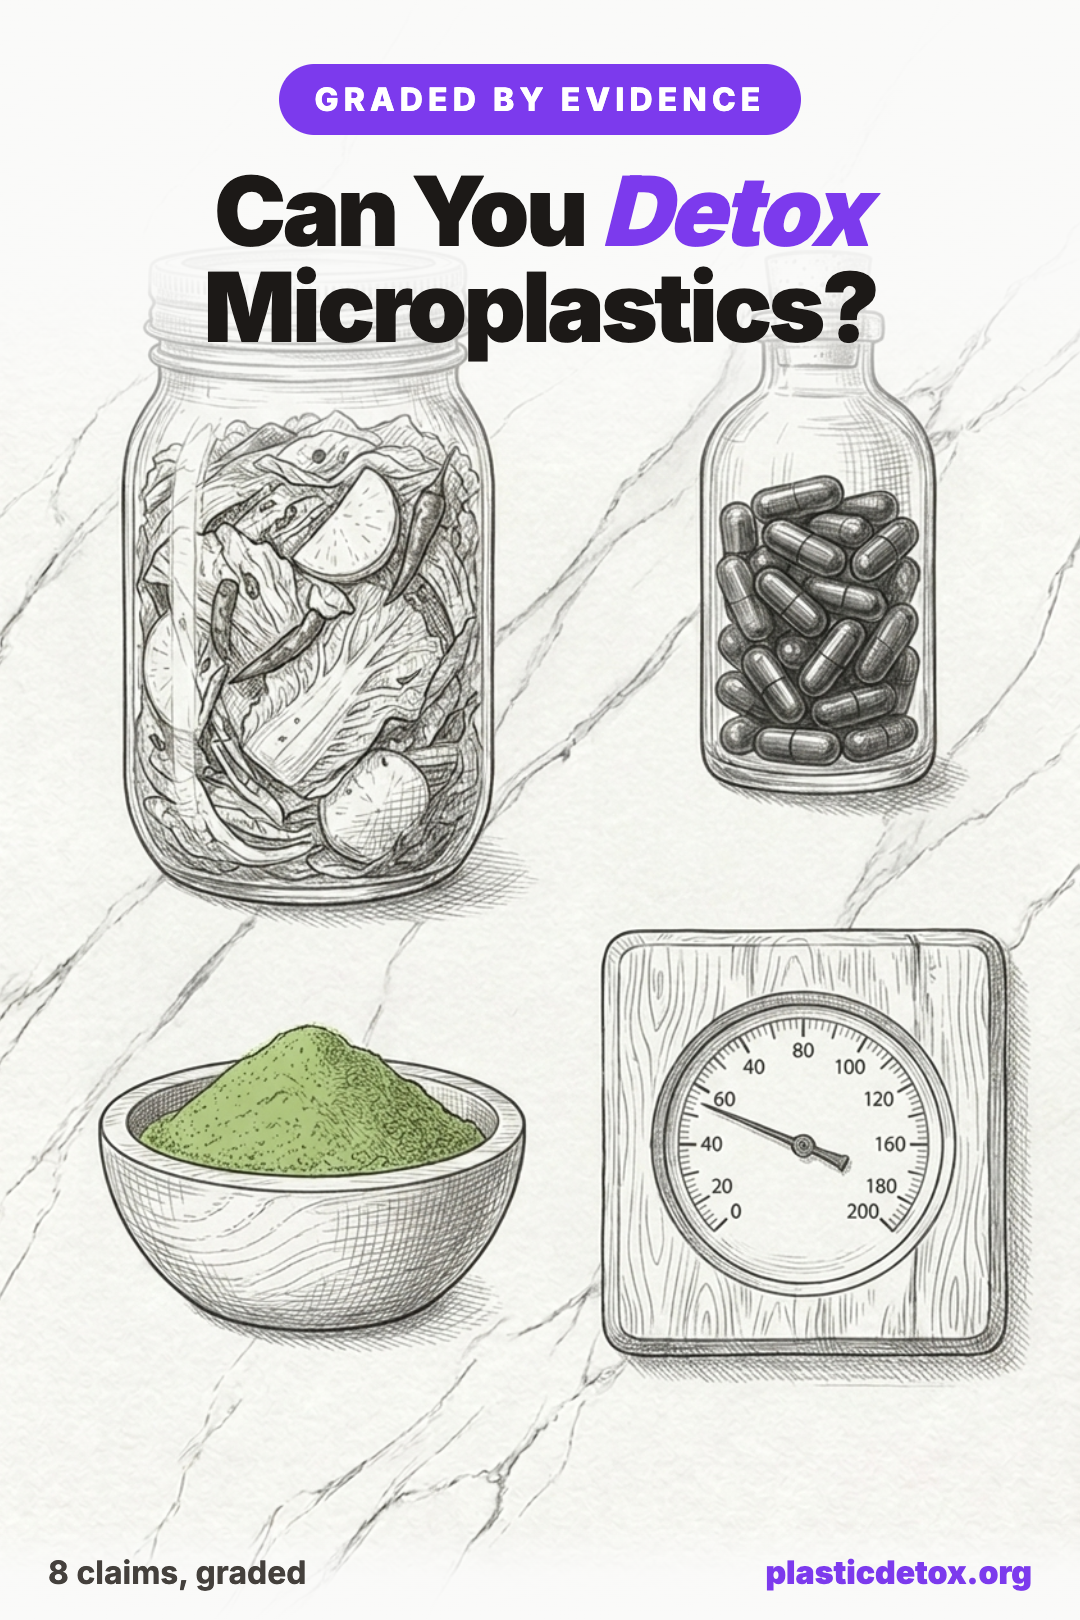
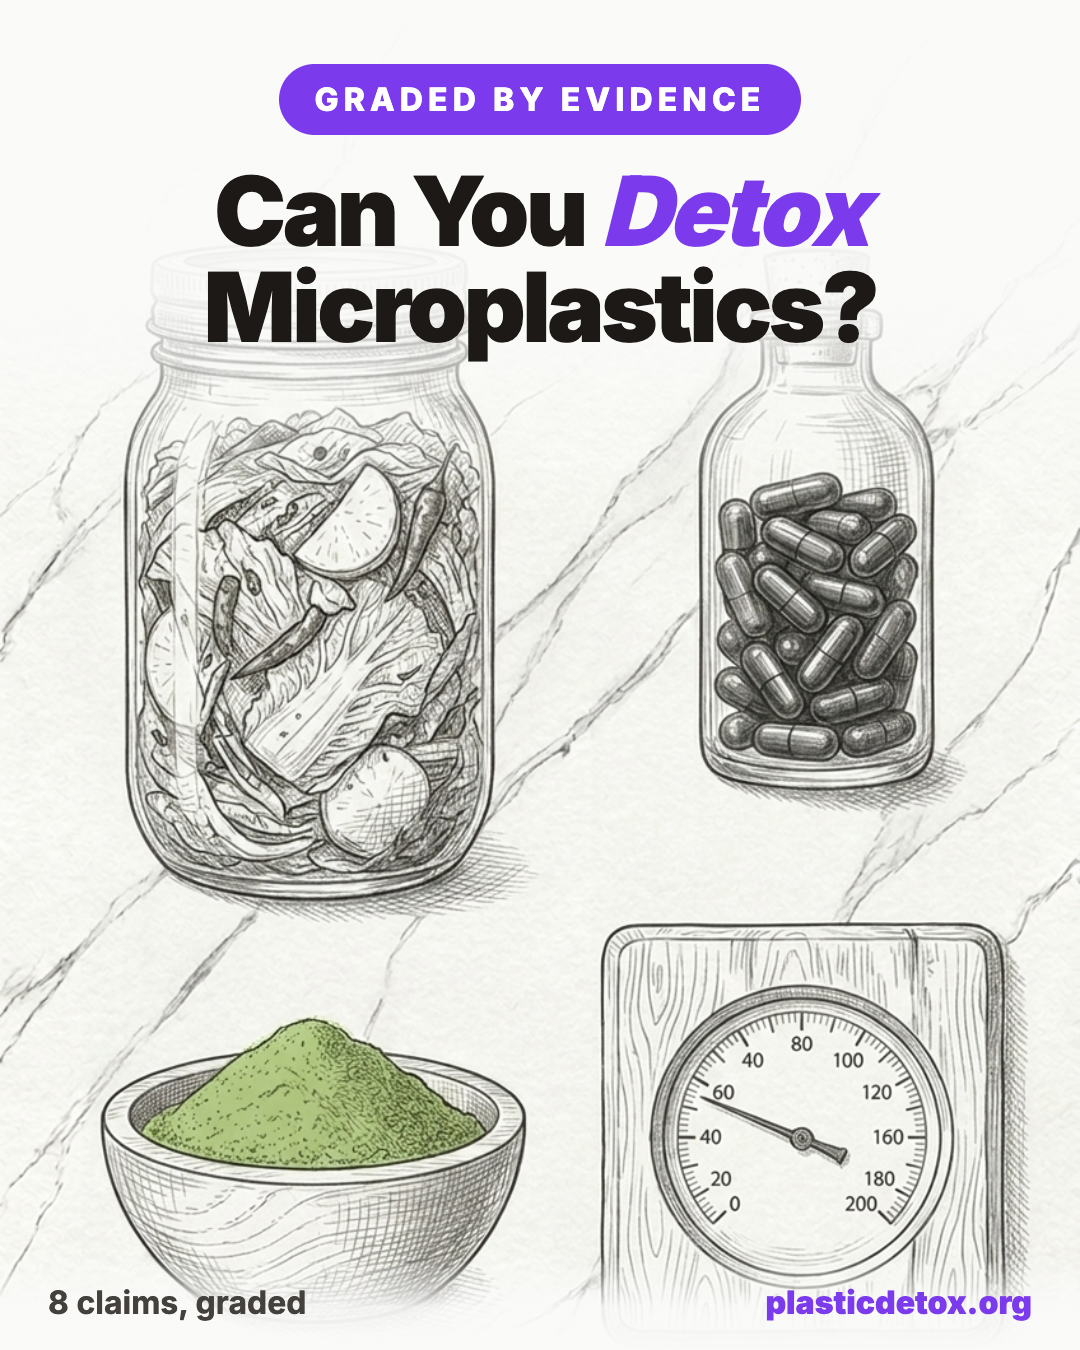
Fix detox hero aspect ratio to 1080x1350 and move summary above intro
Rebuilds the hero at the standard 4:5 ratio (was stretched at 1080x1620),
adds the Pinterest save button + pin meta, and places the 30 Second Summary
right after the hero, before the introduction, matching the hidden-food article.

diff --git a/articles/can-you-detox-microplastics.html b/articles/can-you-detox-microplastics.html
@@ -14,7 +14,7 @@
   <meta property="og:description" content="A wave of microplastic detox content promises kimchi, fiber, saunas, and green powders will flush plastic out of you. We grade each claim against the actual science, and name the trick almost all of them use.">
   <meta property="og:image" content="https://plasticdetox.org/images/can-you-detox-microplastics-article-hero.webp">
   <meta property="og:image:width" content="1080">
-  <meta property="og:image:height" content="1620">
+  <meta property="og:image:height" content="1350">
   <meta property="og:url" content="https://plasticdetox.org/articles/can-you-detox-microplastics.html">
   <meta property="og:site_name" content="Plastic Detox">
 
@@ -22,6 +22,9 @@
   <meta name="twitter:title" content="Can You Detox Microplastics? Every Popular Claim, Graded by the Evidence (2026)">
   <meta name="twitter:description" content="Kimchi, fiber, broccoli pills, saunas, charcoal, blood donation. We grade every popular microplastic detox claim against the research, and explain the one swap almost all of them use.">
   <meta name="twitter:image" content="https://plasticdetox.org/images/can-you-detox-microplastics-article-hero.webp">
+
+  <meta name="pin:media" content="https://plasticdetox.org/images/can-you-detox-microplastics-article-hero.webp">
+  <meta name="pin:description" content="Can you detox microplastics? Kimchi, fiber, broccoli pills, saunas, charcoal, and blood donation, every popular claim graded against the actual research, plus the one trick almost all of them use.">
 
   <script type="application/ld+json">
   {
@@ -131,6 +134,15 @@
   <link rel="stylesheet" href="../css/article.css">
   <style>
     .pin-container { position: relative; margin: 2rem 0; }
+    .pin-container:hover .pin-button { opacity: 1; }
+    .pin-button {
+      position: absolute; top: 16px; left: 16px; display: flex; align-items: center; gap: 6px;
+      background: #e60023; color: #fff; border: none; border-radius: 24px; padding: 10px 16px;
+      font-family: 'Inter', sans-serif; font-size: 0.85rem; font-weight: 700; cursor: pointer;
+      opacity: 0; transition: opacity 0.2s; z-index: 2; text-decoration: none; box-shadow: 0 2px 8px rgba(0,0,0,0.2);
+    }
+    .pin-button:hover { background: #ad081b; }
+    .pin-button svg { width: 18px; height: 18px; fill: #fff; }
     .pin-img { width: 100%; border-radius: var(--radius-sm); display: block; }
     .verdict-table { width: 100%; border-collapse: collapse; margin: 1.5rem 0 2rem; font-size: 0.92rem; }
     .verdict-table th, .verdict-table td { padding: 0.75rem 0.6rem; text-align: left; border-bottom: 1px solid #e7e5e4; vertical-align: top; }
@@ -172,7 +184,23 @@
     <div class="article-meta">Updated June 18, 2026 · 16 min read · <em>This article contains affiliate links. If you purchase through our links, we may earn a small commission at no extra cost to you.</em></div>
 
     <div class="pin-container">
-      <img class="pin-img" fetchpriority="high" src="../images/can-you-detox-microplastics-article-hero.webp" alt="Can you detox microplastics? Pencil illustration of a jar of kimchi, a bottle of capsules, a bowl of green powder, and a scale on marble, with 8 claims graded by the evidence" width="1080" height="1620">
+      <a class="pin-button" href="https://www.pinterest.com/pin/create/button/?url=https%3A%2F%2Fplasticdetox.org%2Farticles%2Fcan-you-detox-microplastics.html&media=https%3A%2F%2Fplasticdetox.org%2Fimages%2Fcan-you-detox-microplastics-article-hero.webp&description=Can%20You%20Detox%20Microplastics%3F%20Every%20popular%20claim%2C%20from%20kimchi%20to%20saunas%20to%20charcoal%2C%20graded%20by%20the%20evidence." target="_blank" rel="noopener">
+        <svg viewBox="0 0 24 24"><path d="M12 0C5.373 0 0 5.373 0 12c0 5.084 3.163 9.426 7.627 11.174-.105-.949-.2-2.405.042-3.441.218-.937 1.407-5.965 1.407-5.965s-.359-.719-.359-1.782c0-1.668.967-2.914 2.171-2.914 1.023 0 1.518.769 1.518 1.69 0 1.029-.655 2.568-.994 3.995-.283 1.194.599 2.169 1.777 2.169 2.133 0 3.772-2.249 3.772-5.495 0-2.873-2.064-4.882-5.012-4.882-3.414 0-5.418 2.561-5.418 5.207 0 1.031.397 2.138.893 2.738a.36.36 0 0 1 .083.345l-.333 1.36c-.053.22-.174.267-.402.161-1.499-.698-2.436-2.889-2.436-4.649 0-3.785 2.75-7.262 7.929-7.262 4.163 0 7.398 2.967 7.398 6.931 0 4.136-2.607 7.464-6.227 7.464-1.216 0-2.359-.631-2.75-1.378l-.748 2.853c-.271 1.043-1.002 2.35-1.492 3.146C9.57 23.812 10.763 24 12 24c6.627 0 12-5.373 12-12S18.627 0 12 0z"/></svg>
+        Save
+      </a>
+      <img class="pin-img" fetchpriority="high" src="../images/can-you-detox-microplastics-article-hero.webp" alt="Can you detox microplastics? Pencil illustration of a jar of kimchi, a bottle of capsules, a bowl of green powder, and a scale on marble, with 8 claims graded by the evidence" width="1080" height="1350" data-pin-description="Can you detox microplastics? Kimchi, fiber, broccoli pills, saunas, charcoal, and blood donation, every popular claim graded against the actual research.">
+    </div>
+
+    <div class="tldr-card">
+      <h2>The 30 Second Summary</h2>
+      <ul>
+        <li><strong>No human study shows you can remove plastic particles already in your tissues.</strong> Not with kimchi, fiber, saunas, charcoal, or any green powder. The science is genuinely early.</li>
+        <li><strong>The one trick to watch for is the chemical for particle swap.</strong> Removes BPA or lowers PFAS quietly becomes removes microplastics. They are different things.</li>
+        <li><strong>The kernels of truth are narrow.</strong> Kimchi research used an isolated strain in germ free mice. Sulforaphane helps excrete some plasticizer chemicals but only mobilizes particles into blood. Blood donation lowers PFAS, not particles.</li>
+        <li><strong>Charcoal, chlorella, and clay binders have zero in vivo evidence.</strong> The studies are all water treatment. Your gut is not a wastewater plant.</li>
+        <li><strong>What actually works is reducing intake, not removal.</strong> Your body already clears most ingested particles. The leverage is not loading more in.</li>
+        <li><strong>The highest impact swap is your water.</strong> Bottled water carries far more particles than filtered tap. A <a href="https://www.amazon.com/dp/B09KRDK677?tag=plasticdetox-20" target="_blank" rel="noopener sponsored">Blu water filter</a> or an <a href="https://www.amazon.com/dp/B00I0ZGOZM?tag=plasticdetox-20" target="_blank" rel="noopener sponsored">APEC ROES-50 reverse osmosis system</a> removes the vast majority of microplastics.</li>
+      </ul>
     </div>
 
     <p>Microplastics are real, and they are in us. Researchers have now found plastic particles in human blood, placenta, testes, and brain tissue, with one widely cited 2025 cadaver study estimating several grams of plastic per brain and higher levels in people who had dementia. Those specific figures are contested: the analytical method struggles to fully separate plastic from the brain's own lipids, and the dementia link cannot tell cause from effect, since a degraded blood brain barrier may simply let more particles in. Even with those caveats, the broader finding that plastic reaches human tissue is well supported. That is a legitimate reason to pay attention, and it is exactly the kind of anxiety that sells supplements.</p>
@@ -188,18 +216,6 @@
     </ol>
 
     <p>A claim that works for one of these often gets marketed as if it works for all three. Watch for that swap. It is the single most common trick in this whole category.</p>
-
-    <div class="tldr-card">
-      <h2>The 30 Second Summary</h2>
-      <ul>
-        <li><strong>No human study shows you can remove plastic particles already in your tissues.</strong> Not with kimchi, fiber, saunas, charcoal, or any green powder. The science is genuinely early.</li>
-        <li><strong>The one trick to watch for is the chemical for particle swap.</strong> Removes BPA or lowers PFAS quietly becomes removes microplastics. They are different things.</li>
-        <li><strong>The kernels of truth are narrow.</strong> Kimchi research used an isolated strain in germ free mice. Sulforaphane helps excrete some plasticizer chemicals but only mobilizes particles into blood. Blood donation lowers PFAS, not particles.</li>
-        <li><strong>Charcoal, chlorella, and clay binders have zero in vivo evidence.</strong> The studies are all water treatment. Your gut is not a wastewater plant.</li>
-        <li><strong>What actually works is reducing intake, not removal.</strong> Your body already clears most ingested particles. The leverage is not loading more in.</li>
-        <li><strong>The highest impact swap is your water.</strong> Bottled water carries far more particles than filtered tap. A <a href="https://www.amazon.com/dp/B09KRDK677?tag=plasticdetox-20" target="_blank" rel="noopener sponsored">Blu water filter</a> or an <a href="https://www.amazon.com/dp/B00I0ZGOZM?tag=plasticdetox-20" target="_blank" rel="noopener sponsored">APEC ROES-50 reverse osmosis system</a> removes the vast majority of microplastics.</li>
-      </ul>
-    </div>
 
     <nav class="toc">
       <div class="toc-title">In This Article</div>

diff --git a/images/can-you-detox-microplastics-article-hero.html b/images/can-you-detox-microplastics-article-hero.html
@@ -15,7 +15,7 @@
     body { background: #d6d3d1; display: flex; justify-content: center; padding: 2rem; font-family: 'Inter', -apple-system, sans-serif; }
     .pin {
       width: 1080px;
-      height: 1620px;
+      height: 1350px;
       position: relative;
       overflow: hidden;
       background: #fafaf9;
@@ -24,12 +24,13 @@
       width: 100%;
       height: 100%;
       object-fit: cover;
+      object-position: center top;
       display: block;
     }
     .top-overlay {
       position: absolute;
       top: 0; left: 0; right: 0;
-      padding: 64px 50px 130px;
+      padding: 64px 50px 150px;
       background: linear-gradient(to bottom,
         rgba(250, 250, 249, 0.98) 0%,
         rgba(250, 250, 249, 0.94) 58%,
